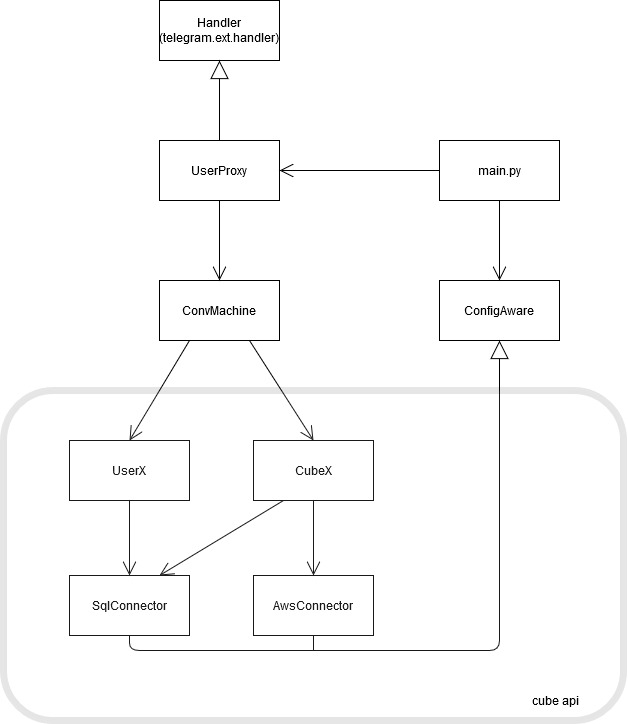
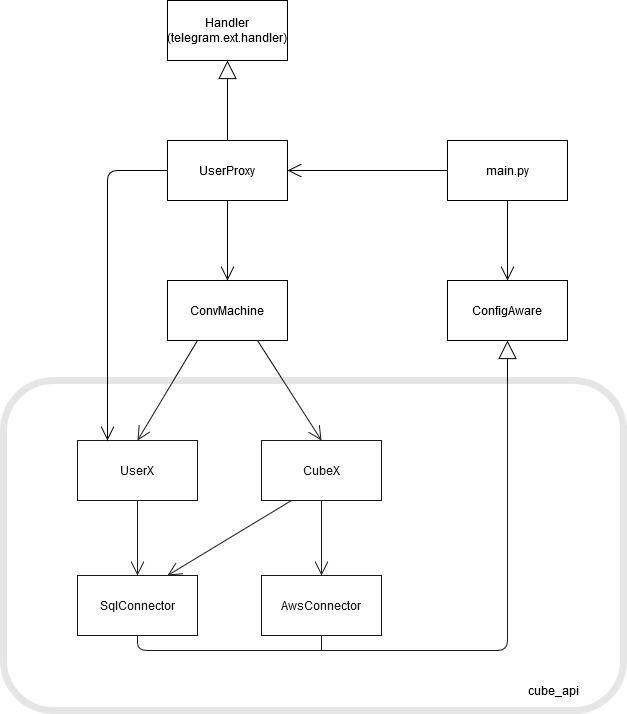
Doku

diff --git a/docs/source/arc42.rst b/docs/source/arc42.rst
@@ -1,8 +1,33 @@
-.. _section-introduction-and-goals:
+.. _section_project_documentation:
+
+Project Documentation
+*********************
+
+Documentation on the short-term project at OPNU in Odessa
+
+Project: Smart Cube
+
+.. ___project_participants:
+
+Project Participants
+--------------------
++------------------------|--------------+
+|Participant             |Student Number|
++========================|==============+
+|Kilian Drechsler        |1111111       |
++------------------------|--------------+
+|Maximilian Diesenbacher |2050504       |
++------------------------|--------------+
+|Florian Wöster          |2222222       |
++------------------------|--------------+
+|Matthias Moser          |3333333       |
++------------------------|--------------+
+
+.. __section-introduction-and-goals:
 
 Introduction and Goals
 ======================
-.. __what_is_the_smart_cube:
+.. ___what_is_the_smart_cube:
 
 What is the Smart Cube?
 -----------------------
@@ -12,7 +37,7 @@ are doing one of these tasks, you simply turn the cube onto the side, you assign
 the cube to another side and the cube measures the time you spent on that task and later creates you statistics about how much time 
 you have spent on which task for example. 
 
-.. __our_task:
+.. ___our_task:
 
 Our Task
 --------
@@ -20,7 +45,7 @@ Our contribution to the whole Smart Cube project is the creation of an API to co
 to be created, the creation of a simple Web-GUI to view some statistics of the cube and finally the implementation of a telegram bot to 
 configure and work with the cube.  
 
-.. __how_to_start:
+.. ___how_to_start:
 
 How to start
 ------------
@@ -28,66 +53,99 @@ To see and try the results of the project, the database, the GUI and the bot hav
 should be connected to a network. If all of this is done, you can connect to the GUI, create a account (with your telegram username) if you 
 have not done so yet and connect to the telegram bot where you have to enter "[/]start" to start interacting with the cube.
 
-.. __requirements_overview:
+.. ___requirements_overview:
 
 Requirements Overview
 ---------------------
-As the cube should be a modern and flexible IoT device, the communication will be cloud based, in this case using AWS. For lightweight and 
-fast interaction with the cube, the protocol MQTT is used. And finally considering the expected flexibility and the prototyp state of the 
-project, the software components will be implemented in python.
+As the cube should be a modern and flexible IoT device, the communication will be **cloud based**, in this case using AWS. For lightweight 
+and fast interaction with the cube, the **protocol MQTT** is used. And finally considering the expected flexibility and the prototyp state 
+of the project, the software components will be implemented in **python**.
 
-.. __quality_goals:
+.. ___quality_goals:
 
 Quality Goals
 -------------
-At the time of this project, the whole Smart Cube project is still quite at the beginning. That is why the main quality goal of this project 
-is flexibility for future ideas and changes in the whole project. Apart from that another goal is to create a simple, easily expandable and 
-correctly working software package for interaction with cube and database, including the telegram bot.
-table!
++------------------------|---------------------------------------------------------------------+
+|Quality goal            |Motivation and Explanation                                           |
++========================|=====================================================================+
+|Flexibility             |At the time of this project, the whole Smart Cube project is still   |
+|                        |quite at the beginning. That is why one main quality goal of this    |
+|                        |project is to create a flexible and easily expandable software for   |
+|                        |future ideas and changes in the whole project .                      |
++------------------------|---------------------------------------------------------------------+
+|Functionality and       |The bot and the web GUI should offer a number of basic functions to  |
+|Correctness             |interact via a correctly funtioning API with the cube.               |      
++------------------------|---------------------------------------------------------------------+
+|Usability               |The bot and the web GUI should be a simple and easy to understand    |
+|                        |interface for the user to work with the cube.                        |
++------------------------|---------------------------------------------------------------------+
 
-.. _section-system-scope-and-context:
+.. __section-system-scope-and-context:
 
 System Scope and Context
 ========================
+
 AWS: To connect to the AWS servers with python, the module AWSIoTPythonSDK will be used
 Database: As the database will also run on AWS, the there available postgresql will be used
 Telegram: For the bot to interact with telegram, the module python-telegram-bot will be used
 Web-GUI: The small web-GUI will also be implemented in python with the help of the django framework
 table!
+.. ___external_interfaces
 
-.. _section-solution-strategy:
+External Interfaces
+-------------------
++------------------------|------------------------------------------------------------------------+
+|External system         |Used Interface                                                          |
++========================|========================================================================+
+|AWS                     |AWSIoTPythonSDK python package                                          |
++------------------------|------------------------------------------------------------------------+
+|Telegram                |python-telegram-bot python package                                      |
++------------------------|------------------------------------------------------------------------+
+|Database                |psycopg2 python package to communicate with the database vial postGreSql|
++------------------------|------------------------------------------------------------------------+
+
+.. ___other_dependencies
+
+Other Dependencies
+------------------
++------------------------|------------------------------------------------------------------------+
+|System                  |Used Component                                                          |
++========================|========================================================================+
+|Web GUI                 |Django Webframework for python                                          |
++------------------------|------------------------------------------------------------------------+
+
+.. __section-solution-strategy:
 
 Solution Strategy
 =================
-As our project consists of four individual parts, we had to find solution strategies for those four different sub-projects:
-
 .. ___api:
 
 API
 ---
-The API to interact with the cube for now consists of four basic classes. There is one to interact directly with the database and one 
-to handle the connection to the AWS. Built on those two classes there is one class which represents the cube and handles operations 
-connected directly to the cube like mapping a task onto a side of the cube. The other class represents the user and deals with requests 
-only connected to the user like creating tasks. These two classes are the interface to be used for any GUI, Application, etc. to interact 
-with the cube and the database.
+The API to interact with the cube for now consists of four basic classes. First there is the SqlConnector which interacts directly with the 
+database and second the AwsConnector to handle the connection to the AWS and therefore to the cube. Built on those two classes there is the 
+class CubeX which represents a cube and handles operations connected directly to the cube like connecting to it or mapping a task onto a 
+side of the cube. The other class, called UserX, represents the user and deals with requests only connected to the user like creating tasks. 
+These two classes make up the interface to be used by any GUI, Application, etc. to interact with the cube and the database like our bot.
 
 .. ___database:
 
 Database
 --------
 The database currently consists of five tables. One to hold the users, one for the cubes, one for the tasks, one for the cube side mappings 
-and one to store the activities measured by the cube. To create a quiet structured way for the user to manage his tasks, the decicions were 
-made that on the one hand a group has to contain at least one task, so the user can group his tasks by group and on the other hand a task 
-can contain an optional cube_id so the user can also group his tasks by cube.
+and one to store the activities measured by the cube. Within this structure, the cubes and tasks are each bound to a user, a task 
+additionally contains a group, which toghter with the user and the name of the task identify it. As a group has to contain at least one task, 
+all groups can be found with the tasks. The table for the cube sides identifys a side via a side number and the cube and holds the task that 
+was mapped onto the side. Finally the measured activities, called events, contain the task and a start and end time.
 
 .. ___telegram_bot:
 
 Telegram Bot
 ------------
-At first, the idea was to create the bot based on the class ConvHandler of the used telegram API. But as this class in the end was to 
-restrictive, the bot is now made up of two classes. The first one is a custom handler for telegram updates to deal with multiple users and 
-the actual conversation is handeled by a own state machine.
-no registration, username telegram = username db
+At first, the idea was to create a bot based on the class ConvHandler of the used telegram API. But as this class in the end came out to be 
+too restrictive for a simple and flexible bot, the bot is now made up of two classes. The first one is a custom handler for telegram updates 
+to handle multiple users called UserProxy and the actual conversation is handeled by a own state machine implemented in the class 
+ConvMachine.
 
 .. ___web_gui:
 
@@ -101,18 +159,19 @@ It passes all the information to the templates.
 The Websites itself has some simple functions, logging in, signing up. As well as editing your Cubes. Along with these Basics functions 
 it shows you a few charts which resembles your time spend on the Tasks and Groups.
 
-.. _section-building-block-view:
+.. __section-building-block-view:
 
 Building Block View
 ===================
 .. image:: images/Database.pdf
-
 sql conncector
 
 .. image:: images/CubeX.jpg
 cubeX + userX
 
 .. image:: images/StateMachine.jpg
+
+.. __section-runtime-view:
 
 Runtime View
 ============
@@ -133,6 +192,8 @@ json example
 cube sends only task_name, rest callback cubeX
 mqtt topics
 
+.. __section-deployment-view:
+
 Deployment View
 ===============
 .. image:: images/Deployment.jpg
@@ -143,7 +204,7 @@ These two applications then also can communicate via the cube API with the MQTT 
 As for this project itself it was not necessary to let all of this run in the cloud, the Web-GUI and the bot still ran on our local devices 
 for easier testing.
 
-.. _section-design-decisions:
+.. __section-design-decisions:
 
 Design Decisions
 ================
@@ -152,4 +213,11 @@ there were no decicions with too much impact made. The only rather enduring deci
 format of the to the cube transmitted json file itself, because there are already many parts in the software that depend on these 
 structures, so changes there could cause a rising number of modifications to be necessary.
 db special, modular for flexibility
+???
+To create a quiet structured way for the user to manage his tasks, the decicions were 
+made that on the one hand a group has to contain at least one task, so the user can group his tasks by group and on the other hand a task 
+can contain an optional cube_id so the user can also group his tasks by cube.
 json
+registration
+no registration, username telegram = username db
+state name conventions
